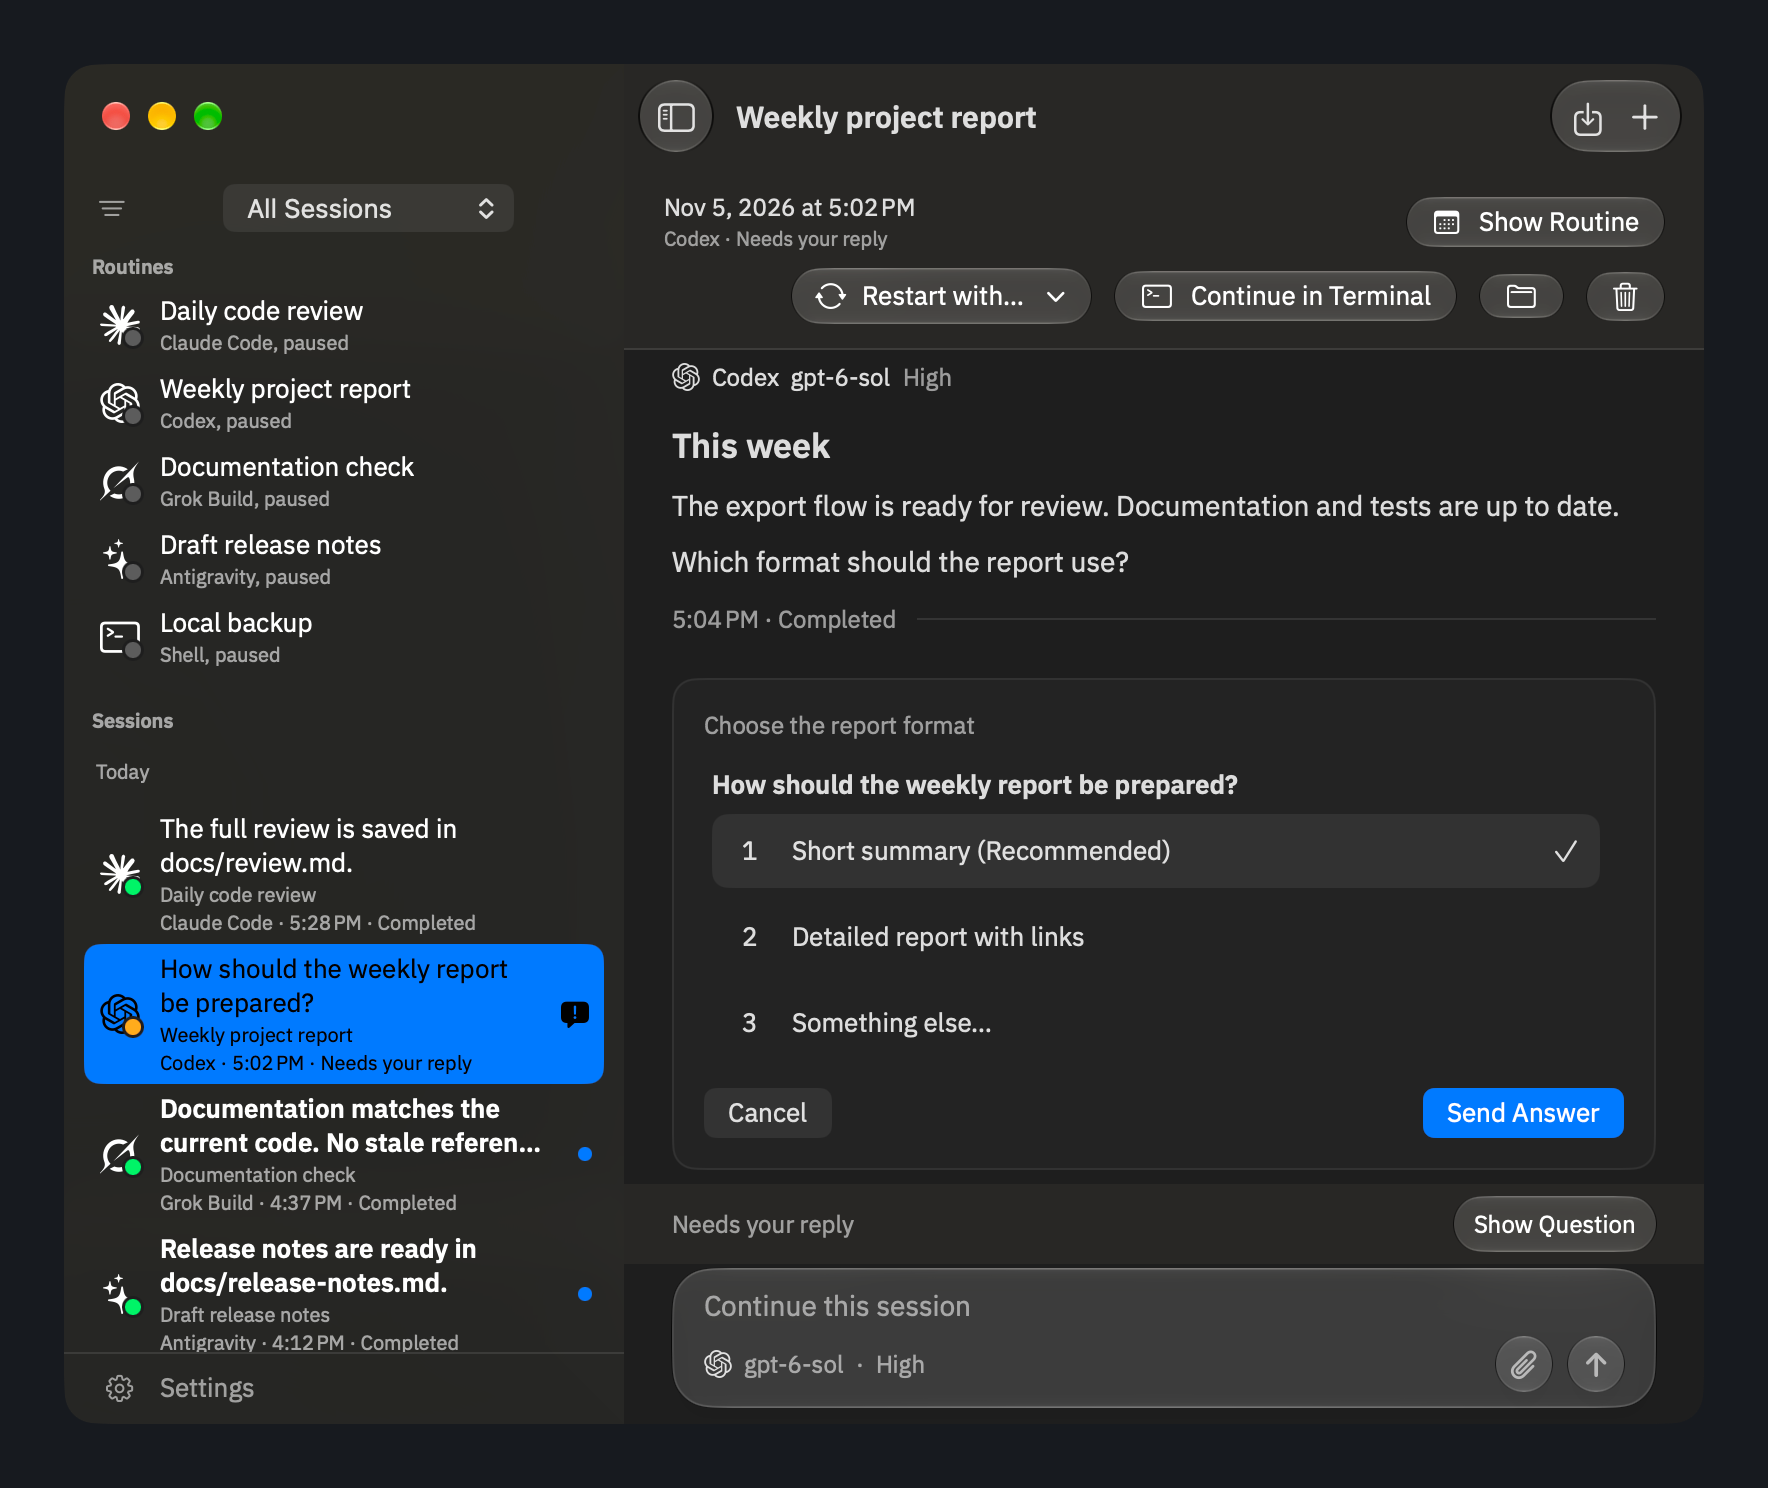
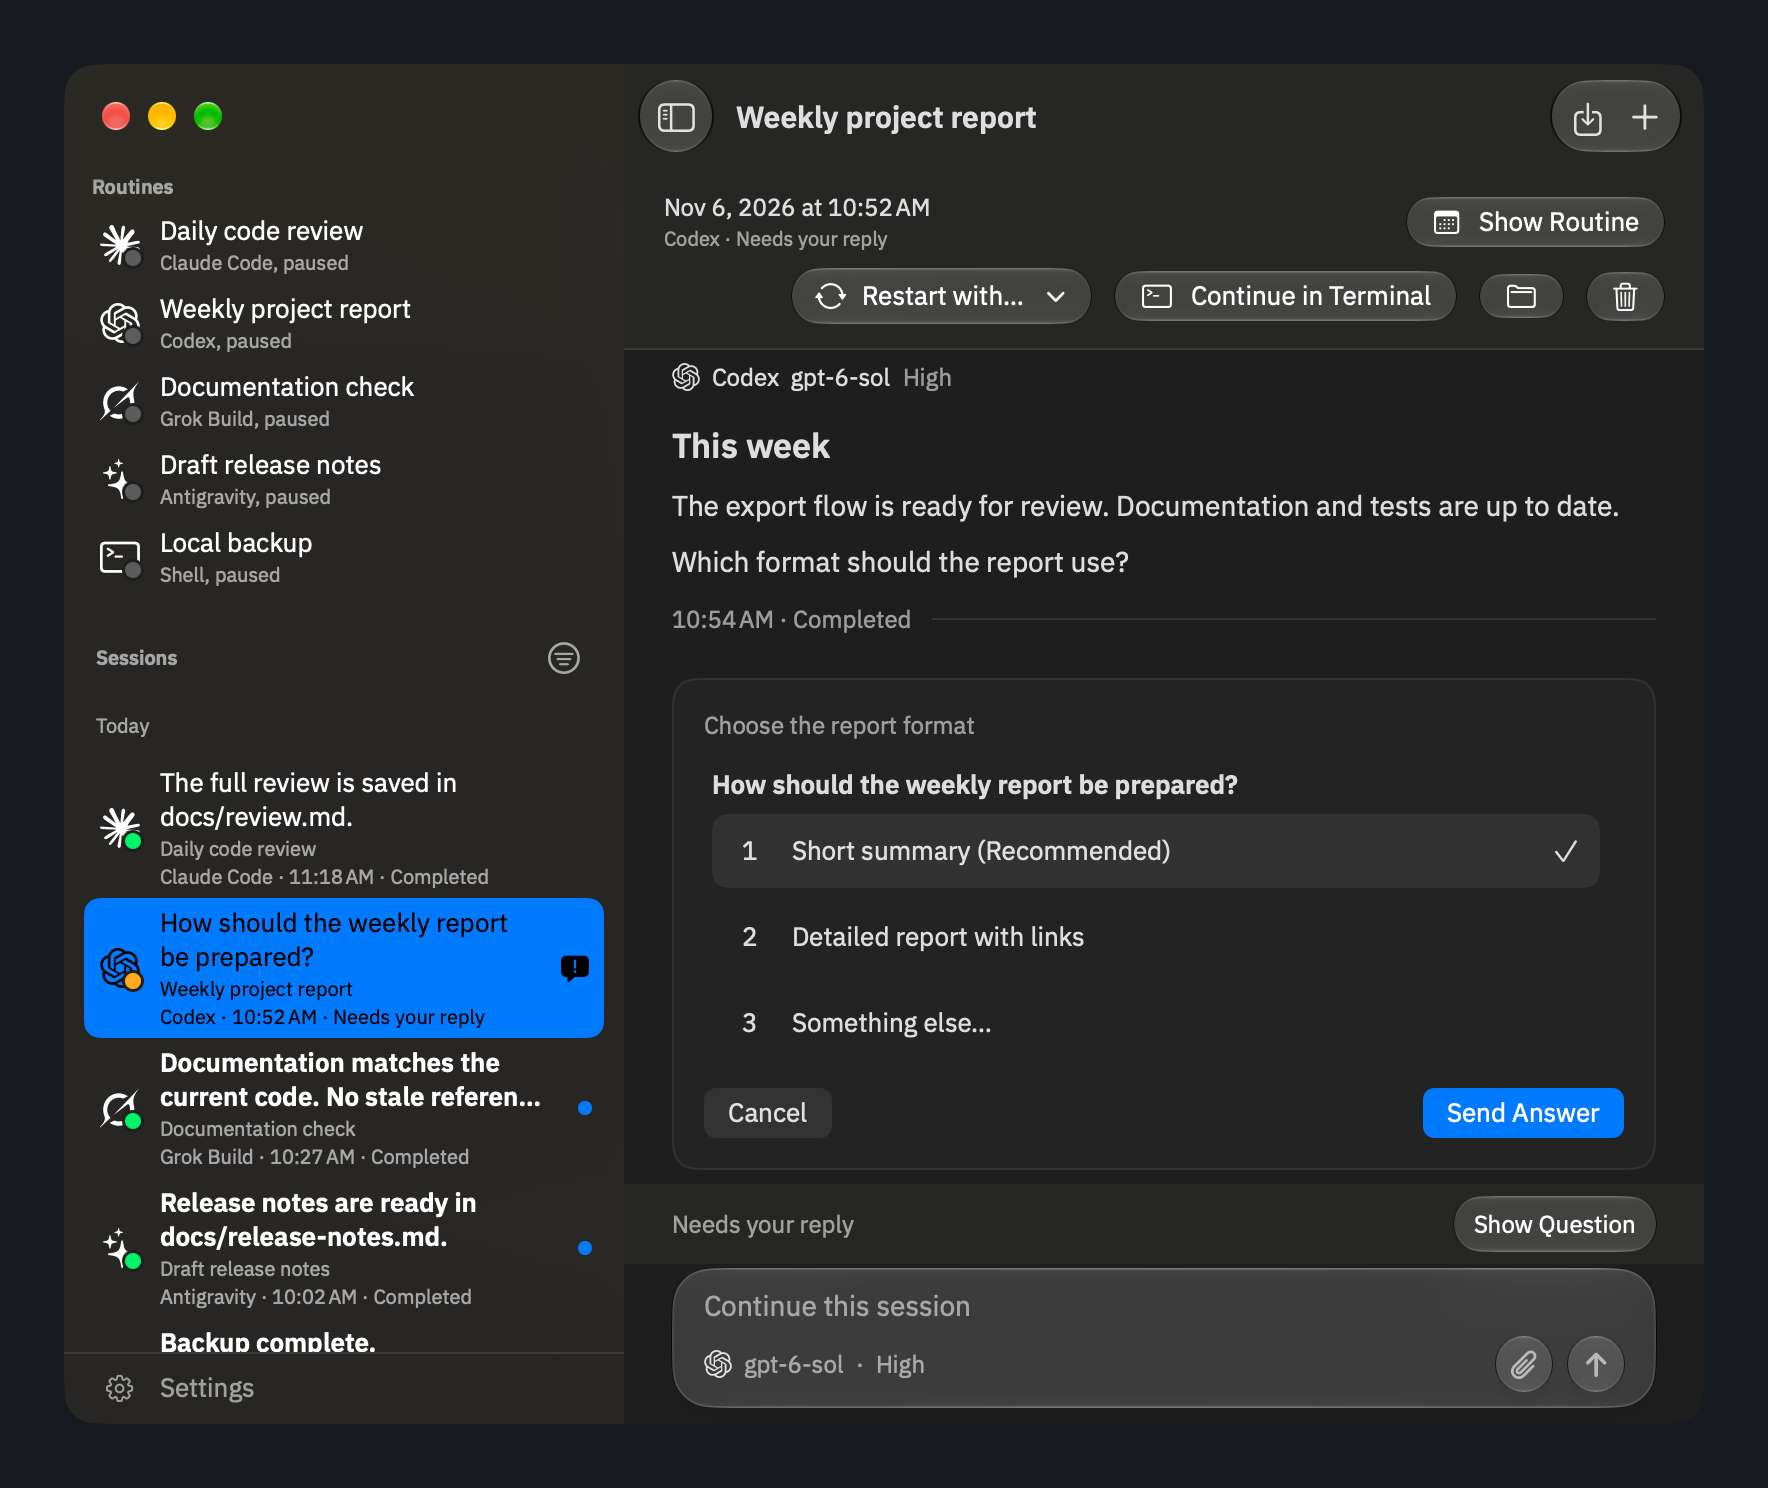
Redesign session filters around a compact menu and reset

diff --git a/Sources/Rota/MainSidebar.swift b/Sources/Rota/MainSidebar.swift
@@ -7,17 +7,16 @@ struct MainSidebar: View {
     @Environment(\.appearsActive) private var appearsActive
     @Environment(AppModel.self) private var model
     @AppStorage("routinesExpanded") private var routinesExpanded = true
-    @FocusState private var sidebarFocused: Bool
-    @FocusState private var filterFocused: Bool
+    private enum Focus: Hashable { case list, filter }
+    @FocusState private var focus: Focus?
 
     let records: [RunRecord]
 
     var body: some View {
         @Bindable var model = model
         let visible = model.sessionFilter.visibleRecords(records, selection: model.selection)
-        let activeList = appearsActive && sidebarFocused
-        VStack(spacing: 0) {
-            filterPicker
+        let activeList = appearsActive && focus == .list
+        ScrollViewReader { proxy in
             List(selection: $model.selection) {
                 Section(isExpanded: $routinesExpanded) {
                     ForEach(RoutineOrder.byNextRun(model.scheduler.routines)) { routine in
@@ -30,6 +29,12 @@ struct MainSidebar: View {
                     SidebarHeader(title: "Routines")
                 }
                 Section {
+                    sessionHeader
+                        .selectionDisabled()
+                        .id("sessionFilterHeader")
+                    if model.sessionFilter != .all {
+                        SessionFilterToken(filter: model.sessionFilter).selectionDisabled()
+                    }
                     if visible.isEmpty {
                         Text("No matching sessions")
                             .interfaceFont(.callout)
@@ -49,55 +54,36 @@ struct MainSidebar: View {
                                 .interfaceFont(.body).tag(SidebarItem.session(record.id))
                         }
                     }
-                } header: {
-                    SidebarHeader(title: "Sessions")
-                        .accessibilityIdentifier("sessionsSection")
                 }
             }
             .accessibilityIdentifier("routineSidebar")
-            .focused($sidebarFocused)
+            .focused($focus, equals: .list)
             .onKeyPress(keys: [.tab, KeyEquivalent("\u{19}")]) { press in
                 guard press.modifiers.contains(.shift) || press.key.character == "\u{19}" else { return .ignored }
-                filterFocused = true
+                focus = .filter
                 return .handled
+            }
+            .onChange(of: focus) { _, value in
+                if value == .filter { proxy.scrollTo("sessionFilterHeader", anchor: .top) }
             }
         }
     }
 
-    private var filterPicker: some View {
+    private var sessionHeader: some View {
         HStack(spacing: metrics.points(8)) {
-            Image(systemName: "line.3.horizontal.decrease")
-                .interfaceSystemFont(size: 13)
-                .foregroundStyle(Color.secondaryText)
-                .accessibilityHidden(true)
-            Picker("Session Filter", selection: Binding(
-                get: { model.sessionFilter },
-                set: { model.selectSessionFilter($0) }
-            )) {
-                ForEach(SessionFilter.allCases) { filter in Text(filter.title).tag(filter) }
-            }
-            .labelsHidden()
-            .pickerStyle(.menu)
-            .focusable(interactions: .edit)
-            .focused($filterFocused)
-            .onMoveCommand { direction in
-                let offset = direction == .up || direction == .left ? -1 : 1
-                let next = model.sessionFilter.moved(by: offset)
-                if next != model.sessionFilter { model.selectSessionFilter(next) }
-            }
-            .onKeyPress(keys: [.tab]) { press in
-                guard !press.modifiers.contains(.shift) else { return .ignored }
-                sidebarFocused = true
-                return .handled
-            }
-            .accessibilityValue(model.sessionFilter.title)
-            .accessibilityIdentifier("sessionFilter")
-            .help("Filter sessions. Use arrow keys to change the filter, then Tab to browse sessions.")
-            .frame(maxWidth: .infinity)
+            SidebarHeader(title: "Sessions")
+            Spacer(minLength: 0)
+            SessionFilterMenu(filter: model.sessionFilter)
+                .focused($focus, equals: .filter)
+                .onKeyPress(keys: [.tab]) { press in
+                    guard !press.modifiers.contains(.shift) else { return .ignored }
+                    focus = .list
+                    return .handled
+                }
         }
-        .interfaceFont(.callout)
-        .padding(.horizontal, metrics.points(16))
-        .padding(.vertical, metrics.points(8))
+        .textCase(nil)
+        .accessibilityElement(children: .contain)
+        .accessibilityIdentifier("sessionsSection")
     }
 }
 

diff --git a/Sources/Rota/SessionFilterControls.swift b/Sources/Rota/SessionFilterControls.swift
@@ -1,0 +1,69 @@
+import SwiftUI
+
+/// A session-scoped menu; its filled symbol indicates that the history is filtered.
+struct SessionFilterMenu: View {
+    @Environment(\.interfaceScale) private var metrics
+    @Environment(AppModel.self) private var model
+
+    let filter: SessionFilter
+
+    var body: some View {
+        Menu {
+            Picker("Session Filter", selection: Binding(
+                get: { filter },
+                set: { model.selectSessionFilter($0) }
+            )) {
+                ForEach(SessionFilter.allCases) { filter in Text(filter.title).tag(filter) }
+            }
+            .pickerStyle(.inline)
+        } label: {
+            Image(systemName: filter == .all
+                  ? "line.3.horizontal.decrease.circle" : "line.3.horizontal.decrease.circle.fill")
+                .interfaceSystemFont(size: 16)
+                .foregroundStyle(filter == .all ? Color.secondaryText : Color.accentColor)
+                .frame(width: metrics.points(28), height: metrics.points(28))
+        }
+        .menuStyle(.button)
+        .buttonStyle(.plain)
+        .menuIndicator(.hidden)
+        .fixedSize()
+        .focusable(interactions: .edit)
+        .onMoveCommand { direction in
+            let next = filter.moved(by: direction == .up || direction == .left ? -1 : 1)
+            if next != filter { model.selectSessionFilter(next) }
+        }
+        .accessibilityLabel("Filter Sessions")
+        .accessibilityValue(filter.title)
+        .accessibilityIdentifier("sessionFilter")
+        .help("Filter sessions. Use arrow keys to change the filter, then Tab to browse sessions.")
+    }
+}
+
+/// The active condition stays separate from the header so its reset action remains accessible.
+struct SessionFilterToken: View {
+    @Environment(\.interfaceScale) private var metrics
+    @Environment(AppModel.self) private var model
+
+    let filter: SessionFilter
+
+    var body: some View {
+        Button {
+            model.selectSessionFilter(.all)
+        } label: {
+            HStack(spacing: metrics.points(8)) {
+                Text(filter.title).foregroundStyle(Color.primary)
+                Image(systemName: "xmark").foregroundStyle(Color.secondaryText)
+                    .interfaceSystemFont(size: 9, weight: .semibold)
+            }
+            .interfaceFont(.callout)
+            .padding(.horizontal, metrics.points(10))
+            .frame(minHeight: metrics.points(28))
+            .background(Color.primary.opacity(0.055), in: Capsule())
+        }
+        .buttonStyle(.plain)
+        .accessibilityLabel("Show All Sessions")
+        .accessibilityValue(filter.title)
+        .accessibilityIdentifier("clearSessionFilter")
+        .help("Show all sessions")
+    }
+}

diff --git a/scripts/ui-driver.swift b/scripts/ui-driver.swift
@@ -199,6 +199,7 @@ case "bounds", "visible":
     if arguments.first == "bounds" {
         print("\(rect.minX) \(rect.minY) \(rect.width) \(rect.height)")
     } else {
+        guard rect.width > 0, rect.height > 0 else { fail("element has no visible area: \(arguments[1])") }
         var parent: AXUIElement? = attribute(element, kAXParentAttribute)
         while let current = parent {
             let role: String = attribute(current, kAXRoleAttribute) ?? ""

diff --git a/scripts/fixtures/keyboard-navigation.py b/scripts/fixtures/keyboard-navigation.py
@@ -56,6 +56,20 @@ for index, name in enumerate(("alpha", "beta", "gamma", "delta", "epsilon")):
     if name == "beta":
         record["attention"] = "Synthetic reply requested."
     records.append(record)
+# A long read history exercises the section header while the list scrolls.
+for index in range(24):
+    record = records[0].copy()
+    started = now - timedelta(days=2, minutes=index + 2)
+    ended = started + timedelta(seconds=1)
+    record.update(
+        id=str(uuid.uuid4()).upper(),
+        startedAt=started.isoformat(),
+        endedAt=ended.isoformat(),
+        readAt=ended.isoformat(),
+        sessionID=f"synthetic-keyboard-history-{index}",
+    )
+    records.append(record)
+ids["oldest"] = records[-1]["id"]
 (root / "runs" / (routine + ".json")).write_text(json.dumps(records), encoding="utf-8")
 (root / "runs/keyboard-running.json").write_text("[]", encoding="utf-8")
 (root / "keyboard-ids.json").write_text(json.dumps(ids), encoding="utf-8")

diff --git a/docs/architecture.md b/docs/architecture.md
@@ -632,9 +632,15 @@ change system grants or install the command.
 
 `MainSidebar` keeps the native list's keyboard focus when changing sessions;
 `ChatComposer` does not request focus on each record change. Its focus state
-separates the session filter from the list. Arrow commands apply only to the
-focused filter, while list arrows retain native selection and scrolling.
+distinguishes the list itself from the filter beside its Sessions heading.
+Arrow commands apply only to the focused filter, while list arrows retain
+native selection and scrolling.
 Shift-Tab reaches the filter from the list, and Tab returns to the list.
+The Sessions heading and native menu occupy a nonselectable list row, with a
+filled symbol when filtering. Native Section headers merge their children into
+one Accessibility element, hiding separate control actions and caching their
+values. A regular row preserves the menu and removable condition as separate
+controls. Shift-Tab scrolls the heading into view as the filter receives focus.
 
 `SessionFilter` evaluates normalized record states for every harness, including
 both Claude modes and terminal continuations. All Sessions is the initial filter
@@ -646,9 +652,11 @@ reset a filter that would otherwise hide the requested session; returning from
 Settings preserves the previous filter and pinned selection. Filter logic and
 navigation boundaries are covered by `SessionFilterTests`.
 `scripts/ui-check.sh --keyboard-only` exercises real arrow and Tab events, text
-selection in the composer, empty results, unread retention, Settings restoration,
-and a disposable Shell run's live state changes. It covers both appearances at
+selection in the composer, empty results, condition reset, unread retention,
+Settings restoration, long-history focus recovery, and a disposable Shell run's
+live state changes. It covers both appearances at
 minimum width and normal and maximum interface zoom, without running an agent.
+Visibility checks reject zero-area cached Accessibility frames for offscreen controls.
 
 `SessionView` distinguishes an unread transcript snapshot from a completed read
 with no messages. It creates `ChatTranscript` after the first read, or after

diff --git a/docs/user-guide.md b/docs/user-guide.md
@@ -233,9 +233,10 @@
 - The sidebar folds away with the button beside the title, View > Hide
   Sidebar or Control-Command-S. Its visibility and resized width are kept across
   launches, so the divider returns to where you left it.
-- The filter above the sidebar offers **All Sessions**, **Running**, **Needs Attention**,
+- The filter button beside **Sessions** offers **All Sessions**, **Running**, **Needs Attention**,
   **Unread**, **Failed**, and **Completed**. It filters sessions while keeping routines
-  available. Needs Attention includes questions, approvals, explicit attention requests,
+  available. An active filter appears below the section heading; press its × to show all sessions.
+  Needs Attention includes questions, approvals, explicit attention requests,
   and sessions waiting in Terminal. Completed shows successful sessions without a pending request.
   An open session stays visible if it becomes read or finishes, until you select another
   session or change the filter. This keeps the chat from disappearing while you read.
